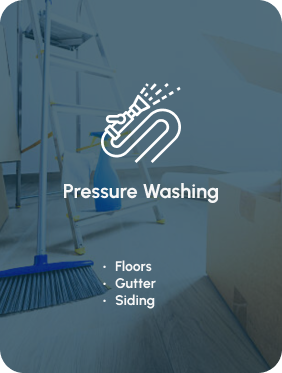
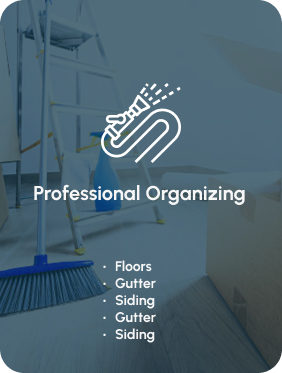
alteracoes1 12-04

Changed region(s): [[0.1135, 0.4718, 0.8794, 0.5603], [0.3972, 0.8257, 0.5674, 0.9142]]

diff --git a/index.html b/index.html
@@ -187,8 +187,9 @@
                 <img src="./assets/services(4).png" alt="" draggable="false">
               </div>
               <div class="theback">
-                <h6>Pressure Washing</h6>
-                <p>At HRS Cleaning, pressure washing (also known as power washing) is a technique that uses high-pressure water spray to eliminate dirt, mud, grime, dust, loose paint, and mold from various surfaces and objects, such as buildings, vehicles, and concrete surfaces</p>
+                <h6>Professional Organizing</h6>
+                <p>Transform your cluttered space into a well-organized haven with our professional organizing services. Say goodbye to the stress and frustration of a disorganized environment and hello to a serene and functional space. Let us help you simplify your life and achieve the peace of mind you deserve.
+                </p>
               </div>
             </div>
           </div>
@@ -286,7 +287,7 @@
             <p>At HRS Cleaning Solutions, we take great pride in providing top-notch services to our clients. Our team is dedicated to ensuring that every job is completed to the highest standards, no matter how big or small. You can trust us to go above and beyond to meet your cleaning needs and exceed your expectations. Choose HRS Cleaning Solutions for a truly exceptional experience.</p>
           </div>
           <div class="reviewsgrid">
-
+            <a href="https://www.google.com/search?kgmid=/g/11s3xspp1q&hl=pt-BR&q=HRS+CLEANING+LLC&kgs=4e8e25fa6c6eb176&shndl=30&shem=lnolc&source=sh/x/kp/osrp/m5/1#lrd=0x8838f5e6711ec897:0x5b2ebdc5ab11ae0d,1,,,," target="_blank">
             <swiper-container class="mySwiper3 reveal" pagination="true" pagination-clickable="true" space-between="0" slides-per-view="auto" loop="true" navigation="false">
               <swiper-slide class="swiper3">
                 <div class="reviewcard">
@@ -399,7 +400,7 @@
                 </div>
               </swiper-slide>
             </swiper-container>
-
+          </a>
             <!-- <swiper-container class="mySwiper3 reveal" pagination="true" pagination-clickable="true" space-between="0" slides-per-view="2" loop="true" navigation="false">
               <swiper-slide class="swiper3">
                 <div class="servicescard">

diff --git a/css/style.css b/css/style.css
@@ -1015,8 +1015,8 @@ swiper-slide.swiper2 {
     width: 100%;
     max-width: 1400px;
     height: 100%;
-    max-height: 500px;
-    cursor: grab;
+    max-height: 390px;
+    cursor: pointer;
     margin:auto;
 }
 .swiper3 {
@@ -1030,7 +1030,7 @@ swiper-slide.swiper2 {
     background-color: #fff;
     margin-left: 17px;
     padding: 18px 16px;
-    margin-bottom: 50px;
+    height: 350px;
 }
 .swiper3 .reviewcard{
     display: flex;
@@ -1040,14 +1040,13 @@ swiper-slide.swiper2 {
     align-self: center;
     justify-content: center;
     text-align: center;
-    height: 300px;
 }
 .swiper3 svg{
-    top: 7%;
     font-size: 24px;
     font-weight: 700;
     line-height: 24px;
     text-align: center;
+    margin-bottom: 10px;
 }
 .swiper3 p{
     display: flex;
@@ -1060,7 +1059,7 @@ swiper-slide.swiper2 {
     padding: 0 15px;
 }
 .swiper3 h2{
-    bottom: 7%;
+    margin-top: 10px;
     font-size: 24px;
     font-weight: 700;
     line-height: 24px;
